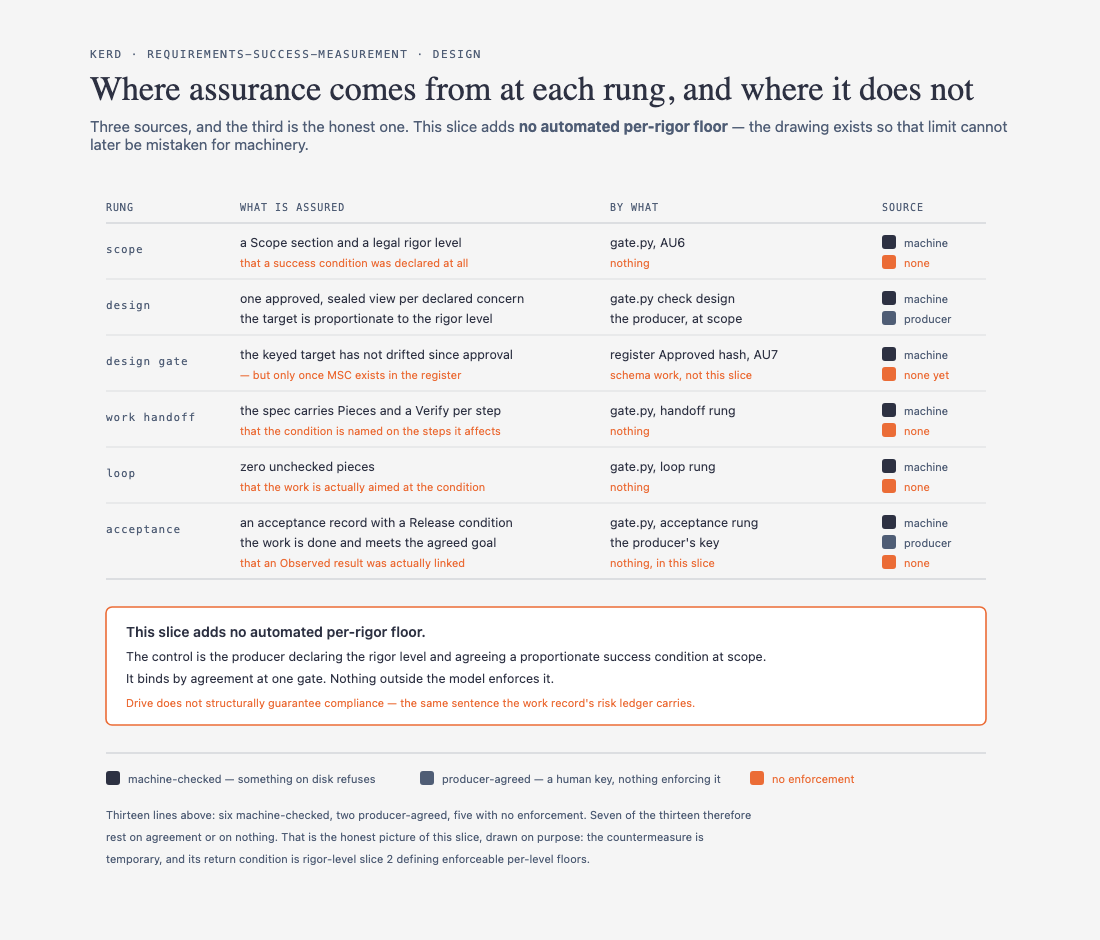
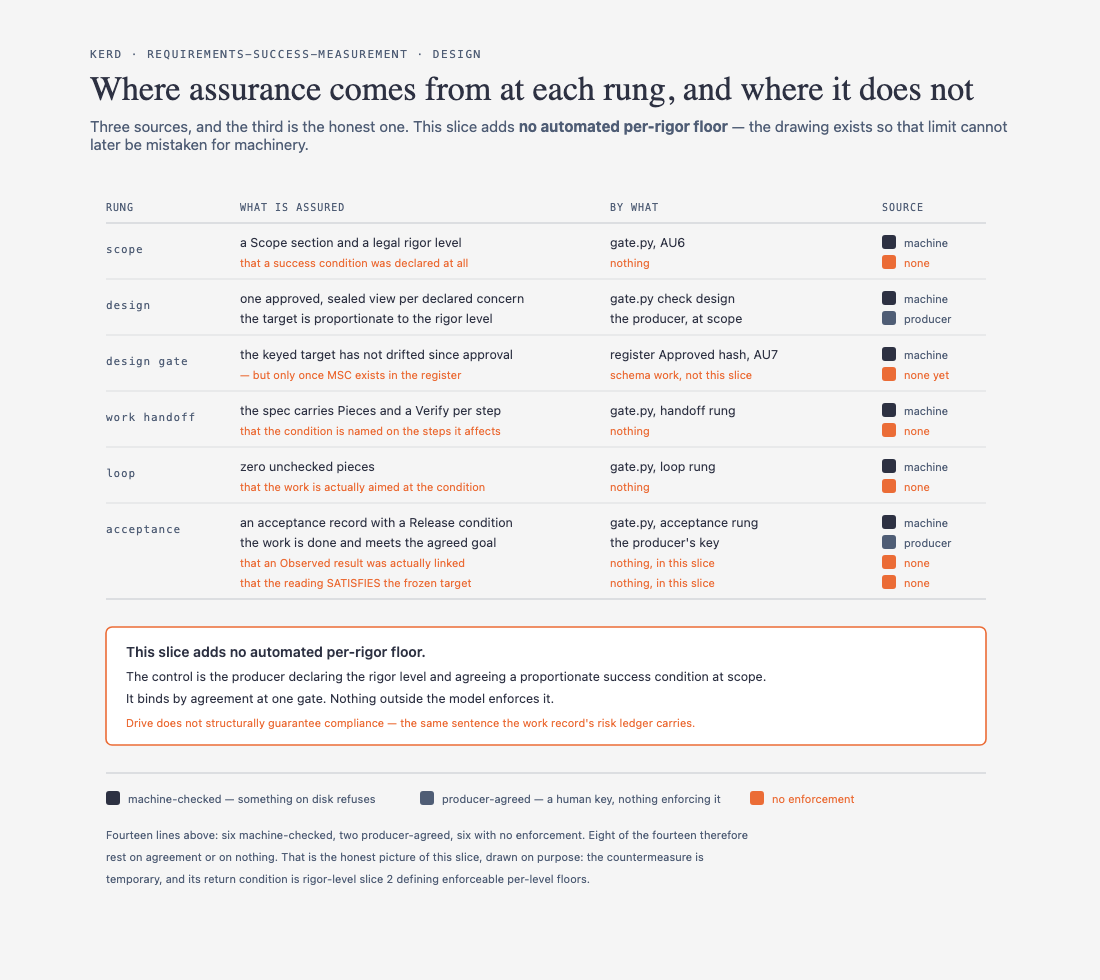
Acceptance is two decisions and three outcomes, not one and two
Producer catch at the design review, and it goes to the capability's purpose:
linking an observed result proves the condition was ASSESSABLE, never that the
target was MET. A linked result can show failure. The earlier model collapsed
those two questions, which would have shipped a capability structurally unable
to report that a number was bad.

  is an Observed result linked?
  |- no  -> NOT ASSESSABLE
  \- yes -> does the result satisfy the target frozen at KEYED?
             |- yes -> PROVEN
             \- no  -> NOT MET

NOT MET is a real, reportable outcome. A design whose only outcomes are 'proven'
and 'could not tell' is a design that cannot say no.

Invariants preserved and stated: KEYED freezes the target; the Observed result
supplies the reading; the comparison decides PROVEN vs NOT MET; absence of a
reading yields NOT ASSESSABLE.

This exposed an omission in the assurance view, which was approved before the
second decision existed: nothing checks whether the reading satisfies the frozen
target. Added as a fourteenth line, none-enforced. Counts re-derived from the
rendered rows — fourteen lines, six machine-checked, two producer-agreed, six
unenforced, so eight of fourteen rest on agreement or on nothing.

Changed region(s): [[0.0618, 0.0309, 0.9273, 0.9255], [0.0927, 0.3702, 0.1545, 0.4628], [0.0927, 0.3085, 0.1545, 0.3394]]

diff --git a/docs/design/requirements-success-measurement/condition-lifecycle.html b/docs/design/requirements-success-measurement/condition-lifecycle.html
@@ -21,10 +21,10 @@
   <div class="wrap">
     <p class="eyebrow">Kerd · requirements-success-measurement · design</p>
     <h1>How a success condition travels from declaration to demonstrated proof</h1>
-    <p class="sub">Five states before acceptance, then a decision with two outcomes. It spans five of the ladder&rsquo;s seven rungs. The design gate is the producer&rsquo;s key <em>at</em> the design rung &mdash; a transition, not a rung of its own.</p>
-    <svg viewBox="0 0 920 700" role="img" aria-labelledby="lc-title lc-desc">
+    <p class="sub">Five states before acceptance, then <strong>two decisions and three outcomes</strong>. It spans five of the ladder&rsquo;s seven rungs. The design gate is the producer&rsquo;s key <em>at</em> the design rung &mdash; a transition, not a rung of its own.</p>
+    <svg viewBox="0 0 920 796" role="img" aria-labelledby="lc-title lc-desc">
       <title id="lc-title">How a success condition travels from declaration to demonstrated proof</title>
-      <desc id="lc-desc">A success condition passes through five states before acceptance, then a decision with two outcomes. It spans five of the ladder's seven rungs, from scope to acceptance. Frame and viability sit before this span. The design gate shown here is the producer's key at the design rung, a transition rather than a rung of its own. At scope the condition is UNDECLARED: the requirement exists and nothing says how we will know it was met. At design it becomes DECLARED, with statement, measure, baseline and target written, in register state proposed. At the design gate it becomes KEYED: the producer approves it and the register records an Approved hash over its words, so the target cannot later change without the approval visibly diverging. At work handoff it becomes CARRIED, named on every step whose work affects it. In the loop it is TRACKED, the thing the build is aimed at. Then acceptance evaluates the condition, and that evaluation is a decision with two outcomes, not a state that can fail afterwards: the question asked is whether an observed result is linked. If yes, the condition is PROVEN by the reading rather than by assertion. If no, the outcome is NOT ASSESSABLE, which is never a passed row and never grounds for authoring a target after the build, following the precedent set at the gate-visuals acceptance gate on 2026-08-30. KEYED freezes the predeclared target and PROVEN holds the later reading, which is why the two live on different objects.</desc>
+      <desc id="lc-desc">A success condition passes through five states before acceptance, then two decisions yielding three outcomes. It spans five of the ladder's seven rungs, from scope to acceptance. Frame and viability sit before this span. The design gate shown here is the producer's key at the design rung, a transition rather than a rung of its own. At scope the condition is UNDECLARED: the requirement exists and nothing says how we will know it was met. At design it becomes DECLARED, with statement, measure, baseline and target written, in register state proposed. At the design gate it becomes KEYED: the producer approves it and the register records an Approved hash over its words, so the target cannot later change without the approval visibly diverging. At work handoff it becomes CARRIED, named on every step whose work affects it. In the loop it is TRACKED, the thing the build is aimed at. Then acceptance evaluates the condition through two decisions, not one. The first asks whether an observed result is linked; if not, the outcome is NOT ASSESSABLE, because no reading was taken at all — never a passed row and never grounds for authoring a target after the build, following the precedent set at the gate-visuals acceptance gate on 2026-08-30. If a reading is linked, the second decision compares it against the target frozen at KEYED: if the reading satisfies the target the outcome is PROVEN, and if it misses the target the outcome is NOT MET. NOT MET is a real and reportable outcome, not a failure of the process. A linked reading proves only that the condition was assessable; it never proves the target was met, and the whole purpose of the capability is that measurement can demonstrate an unmet expectation rather than merely confirm that somebody recorded a number. KEYED freezes the predeclared target and PROVEN holds the later reading, which is why the two live on different objects.</desc>
       <defs>
         <marker id="a" viewBox="0 0 10 10" refX="9" refY="5" markerWidth="7" markerHeight="7" orient="auto-start-reverse">
           <path d="M 0 0 L 10 5 L 0 10 z" fill="#4f5d75"/></marker>
@@ -91,38 +91,53 @@
 
       <text class="rung" x="16" y="420">acceptance</text>
       <text class="e" x="16" y="434">rung 7 of 7</text>
-      <rect class="dec" x="176" y="392" width="396" height="56" rx="6"/>
-      <text class="b" x="194" y="418">acceptance evaluates the condition</text>
-      <text class="ma" x="194" y="438">is an Observed result linked?</text>
-      <text class="m" x="600" y="418">a DECISION with two outcomes —</text>
-      <text class="m" x="600" y="436">not a state that fails afterwards</text>
+      <rect class="dec" x="176" y="392" width="396" height="50" rx="6"/>
+      <text class="b" x="194" y="415">acceptance evaluates the condition</text>
+      <text class="ma" x="194" y="434">is an Observed result linked?</text>
 
-      <path d="M 272 448 L 272 476 L 220 476 L 220 500" stroke="#eb6c36" stroke-width="1.6" marker-end="url(#aa)" fill="none"/>
-      <text class="ea" x="230" y="470">yes</text>
-      <path d="M 476 448 L 476 476 L 528 476 L 528 500" stroke="#eb6c36" stroke-width="1.6" marker-end="url(#aa)" fill="none"/>
-      <text class="ea" x="486" y="470">no</text>
+      <path d="M 572 417 L 644 417" stroke="#eb6c36" stroke-width="1.6" marker-end="url(#aa)" fill="none"/>
+      <text class="ea" x="590" y="409">no</text>
+      <rect class="box" x="648" y="392" width="248" height="50" rx="6"/>
+      <text class="b" x="666" y="415">NOT ASSESSABLE</text>
+      <text class="m" x="666" y="434">no reading was taken at all</text>
 
-      <rect class="new" x="122" y="502" width="196" height="76" rx="6"/>
-      <text class="b" x="140" y="528">PROVEN</text>
-      <text class="m" x="140" y="548">the reading, not an assertion</text>
-      <text class="e" x="140" y="566">evidenced-by is satisfied</text>
+      <path d="M 374 442 L 374 478" stroke="#eb6c36" stroke-width="1.6" marker-end="url(#aa)" fill="none"/>
+      <text class="ea" x="386" y="464">yes</text>
 
-      <rect class="box" x="430" y="502" width="196" height="76" rx="6"/>
-      <text class="b" x="448" y="528">NOT ASSESSABLE</text>
-      <text class="m" x="448" y="548">never a passed row · never a</text>
-      <text class="m" x="448" y="566">target written after the build</text>
+      <rect class="dec" x="176" y="478" width="396" height="50" rx="6"/>
+      <text class="b" x="194" y="501">compare the reading to the target</text>
+      <text class="ma" x="194" y="520">does it satisfy the target frozen at KEYED?</text>
+      <text class="m" x="600" y="497">the target cannot move to meet</text>
+      <text class="m" x="600" y="515">the reading — that is what KEYED buys</text>
 
-      <text class="m" x="656" y="528">the gate-visuals precedent,</text>
-      <text class="m" x="656" y="546">2026-08-30 — an absent</text>
-      <text class="m" x="656" y="564">declaration is an exception,</text>
-      <text class="m" x="656" y="582">not a pass</text>
+      <path d="M 272 528 L 272 552 L 236 552 L 236 578" stroke="#eb6c36" stroke-width="1.6" marker-end="url(#aa)" fill="none"/>
+      <text class="ea" x="246" y="546">yes</text>
+      <path d="M 476 528 L 476 552 L 512 552 L 512 578" stroke="#eb6c36" stroke-width="1.6" marker-end="url(#aa)" fill="none"/>
+      <text class="ea" x="486" y="546">no</text>
 
-      <line x1="16" y1="614" x2="896" y2="614" stroke="#4f5d75" stroke-opacity=".3"/>
-      <rect class="box" x="16" y="632" width="22" height="14" rx="3"/>
-      <text class="m" x="48" y="644">state reachable today</text>
-      <rect class="new" x="220" y="632" width="22" height="14" rx="3"/>
-      <text class="ma" x="252" y="644">introduced by this design — none of it is built in this slice</text>
-      <text class="m" x="16" y="678">KEYED freezes the predeclared target; PROVEN holds the later reading. That is why they are two objects and never one field.</text>
+      <rect class="new" x="138" y="580" width="196" height="68" rx="6"/>
+      <text class="b" x="156" y="606">PROVEN</text>
+      <text class="m" x="156" y="626">the reading meets the target</text>
+      <text class="e" x="156" y="642">the expectation held</text>
+
+      <rect class="new" x="414" y="580" width="196" height="68" rx="6"/>
+      <text class="b" x="432" y="606">NOT MET</text>
+      <text class="m" x="432" y="626">the reading misses the target</text>
+      <text class="e" x="432" y="642">a real, reportable outcome</text>
+
+      <text class="ma" x="632" y="600">Measurement must be able to show an</text>
+      <text class="ma" x="632" y="618">UNMET expectation, not merely confirm</text>
+      <text class="ma" x="632" y="636">that somebody recorded a number.</text>
+      <text class="m" x="632" y="658">That is the capability&#8217;s purpose.</text>
+
+      <line x1="16" y1="690" x2="896" y2="690" stroke="#4f5d75" stroke-opacity=".3"/>
+      <rect class="box" x="16" y="708" width="22" height="14" rx="3"/>
+      <text class="m" x="48" y="720">state reachable today</text>
+      <rect class="new" x="220" y="708" width="22" height="14" rx="3"/>
+      <text class="ma" x="252" y="720">introduced by this design — none of it is built in this slice</text>
+
+      <text class="m" x="16" y="754">KEYED freezes the target · the Observed result supplies the reading · the comparison decides PROVEN or NOT MET ·</text>
+      <text class="m" x="16" y="776">the absence of a reading yields NOT ASSESSABLE. Three outcomes, two decisions — never one.</text>
 
     </svg>
   </div>

diff --git a/docs/design/requirements-success-measurement/assurance-boundary.html b/docs/design/requirements-success-measurement/assurance-boundary.html
@@ -22,9 +22,9 @@
     <p class="eyebrow">Kerd · requirements-success-measurement · design</p>
     <h1>Where assurance comes from at each rung, and where it does not</h1>
     <p class="sub">Three sources, and the third is the honest one. This slice adds <strong>no automated per-rigor floor</strong> — the drawing exists so that limit cannot later be mistaken for machinery.</p>
-    <svg viewBox="0 0 920 700" role="img" aria-labelledby="ab-title ab-desc">
+    <svg viewBox="0 0 920 720" role="img" aria-labelledby="ab-title ab-desc">
       <title id="ab-title">Where assurance comes from at each rung, and where it does not</title>
-      <desc id="ab-desc">For each rung of the ladder, the drawing names what assures the success condition and by what mechanism. Assurance comes from three sources, marked distinctly: machine-checked, meaning something on disk refuses; producer-agreed, meaning a human key with nothing outside the model enforcing it; and no enforcement, meaning nothing checks at all. At scope, the Scope section and a legal rigor level are machine-checked by the existing gate, but whether a success condition was declared at all is not enforced. At design, one approved and sealed view per declared concern is machine-checked; whether the condition's target is proportionate to the declared rigor level is producer-agreed only. At the design gate the register's Approved hash over the condition is machine-checkable once MSC exists in the register, though that is schema work this slice does not build. At work handoff the spec must carry Pieces and a Verify on every step, machine-checked; whether the condition is actually named on the steps it affects has no enforcement. In the loop, zero unchecked pieces is machine-checked; whether the work is aimed at the condition has no enforcement. At acceptance the acceptance record and its Release condition section are machine-checked, and the producer's key is the decision; whether an observed result was actually linked has no enforcement in this slice. The summary is stated plainly: of thirteen lines, six are machine-checked, two are producer-agreed and five have no enforcement, so seven of the thirteen rest on agreement or on nothing; this slice adds no automated per-rigor floor, and Drive does not structurally guarantee compliance — the same sentence carried in the work record's risk ledger.</desc>
+      <desc id="ab-desc">For each rung of the ladder, the drawing names what assures the success condition and by what mechanism. Assurance comes from three sources, marked distinctly: machine-checked, meaning something on disk refuses; producer-agreed, meaning a human key with nothing outside the model enforcing it; and no enforcement, meaning nothing checks at all. At scope, the Scope section and a legal rigor level are machine-checked by the existing gate, but whether a success condition was declared at all is not enforced. At design, one approved and sealed view per declared concern is machine-checked; whether the condition's target is proportionate to the declared rigor level is producer-agreed only. At the design gate the register's Approved hash over the condition is machine-checkable once MSC exists in the register, though that is schema work this slice does not build. At work handoff the spec must carry Pieces and a Verify on every step, machine-checked; whether the condition is actually named on the steps it affects has no enforcement. In the loop, zero unchecked pieces is machine-checked; whether the work is aimed at the condition has no enforcement. At acceptance the acceptance record and its Release condition section are machine-checked, and the producer's key is the decision; whether an observed result was actually linked has no enforcement in this slice. The summary is stated plainly: of fourteen lines, six are machine-checked, two are producer-agreed and six have no enforcement, so eight of the fourteen rest on agreement or on nothing; among the unenforced is the comparison itself, whether the observed reading actually satisfies the target frozen at the design gate, which nothing checks in this slice; this slice adds no automated per-rigor floor, and Drive does not structurally guarantee compliance — the same sentence carried in the work record's risk ledger.</desc>
       <defs>
         <style>
           .n{font-family:var(--font-sans);font-size:12.5px;fill:var(--color-ink);}
@@ -113,26 +113,30 @@
       <text class="ma" x="520" y="386">nothing, in this slice</text>
       <rect x="792" y="374" width="14" height="14" rx="3" fill="#eb6c36"/>
       <text class="ma" x="814" y="386">none</text>
-      <line x1="16" y1="398" x2="896" y2="398" stroke="#4f5d75" stroke-opacity=".3"/>
+      <text class="ma" x="150" y="406">that the reading SATISFIES the frozen target</text>
+      <text class="ma" x="520" y="406">nothing, in this slice</text>
+      <rect x="792" y="394" width="14" height="14" rx="3" fill="#eb6c36"/>
+      <text class="ma" x="814" y="406">none</text>
+      <line x1="16" y1="418" x2="896" y2="418" stroke="#4f5d75" stroke-opacity=".3"/>
 
       <!-- the statement this drawing exists for -->
-      <rect x="16" y="426" width="880" height="118" rx="6" fill="#fff" stroke="#eb6c36" stroke-width="1.6"/>
-      <text class="b" x="36" y="456">This slice adds no automated per-rigor floor.</text>
-      <text class="n" x="36" y="480">The control is the producer declaring the rigor level and agreeing a proportionate success condition at scope.</text>
-      <text class="n" x="36" y="502">It binds by agreement at one gate. Nothing outside the model enforces it.</text>
-      <text class="ma" x="36" y="526">Drive does not structurally guarantee compliance — the same sentence the work record's risk ledger carries.</text>
+      <rect x="16" y="446" width="880" height="118" rx="6" fill="#fff" stroke="#eb6c36" stroke-width="1.6"/>
+      <text class="b" x="36" y="476">This slice adds no automated per-rigor floor.</text>
+      <text class="n" x="36" y="500">The control is the producer declaring the rigor level and agreeing a proportionate success condition at scope.</text>
+      <text class="n" x="36" y="522">It binds by agreement at one gate. Nothing outside the model enforces it.</text>
+      <text class="ma" x="36" y="546">Drive does not structurally guarantee compliance — the same sentence the work record's risk ledger carries.</text>
 
-      <line x1="16" y1="572" x2="896" y2="572" stroke="#4f5d75" stroke-opacity=".3"/>
-      <rect x="16" y="590" width="14" height="14" rx="3" fill="#2d3142"/>
-      <text class="m" x="38" y="602">machine-checked — something on disk refuses</text>
-      <rect x="330" y="590" width="14" height="14" rx="3" fill="#4f5d75"/>
-      <text class="m" x="352" y="602">producer-agreed — a human key, nothing enforcing it</text>
-      <rect x="660" y="590" width="14" height="14" rx="3" fill="#eb6c36"/>
-      <text class="ma" x="682" y="602">no enforcement</text>
+      <line x1="16" y1="592" x2="896" y2="592" stroke="#4f5d75" stroke-opacity=".3"/>
+      <rect x="16" y="610" width="14" height="14" rx="3" fill="#2d3142"/>
+      <text class="m" x="38" y="622">machine-checked — something on disk refuses</text>
+      <rect x="330" y="610" width="14" height="14" rx="3" fill="#4f5d75"/>
+      <text class="m" x="352" y="622">producer-agreed — a human key, nothing enforcing it</text>
+      <rect x="660" y="610" width="14" height="14" rx="3" fill="#eb6c36"/>
+      <text class="ma" x="682" y="622">no enforcement</text>
 
-      <text class="m" x="16" y="638">Thirteen lines above: six machine-checked, two producer-agreed, five with no enforcement. Seven of the thirteen therefore</text>
-      <text class="m" x="16" y="660">rest on agreement or on nothing. That is the honest picture of this slice, drawn on purpose: the countermeasure is</text>
-      <text class="m" x="16" y="682">temporary, and its return condition is rigor-level slice 2 defining enforceable per-level floors.</text>
+      <text class="m" x="16" y="658">Fourteen lines above: six machine-checked, two producer-agreed, six with no enforcement. Eight of the fourteen therefore</text>
+      <text class="m" x="16" y="680">rest on agreement or on nothing. That is the honest picture of this slice, drawn on purpose: the countermeasure is</text>
+      <text class="m" x="16" y="702">temporary, and its return condition is rigor-level slice 2 defining enforceable per-level floors.</text>
     </svg>
   </div>
 </body>

diff --git a/docs/design/requirements-success-measurement.md b/docs/design/requirements-success-measurement.md
@@ -121,7 +121,7 @@ does not build it.**
 
 ## The lifecycle
 
-Five states before acceptance, then a **decision** with two outcomes —
+Five states before acceptance, then **two decisions yielding three outcomes** —
 `docs/design/requirements-success-measurement/condition-lifecycle.html`. It
 spans five of the ladder's seven rungs (`frame` and `viability` sit before it),
 and **the design gate is the producer's key *at* the design rung — a transition,
@@ -140,16 +140,40 @@ not a rung of its own.**
 That separation is the lifecycle's whole point and it is why the two live on
 different objects.
 
-**Acceptance is a decision, not a state that fails afterwards.** It asks one
-question — *is an `Observed result` linked?* — and yields one of two outcomes:
+**Acceptance is two decisions, not one — and the second is the capability's
+entire purpose.**
 
-- **yes → `PROVEN`.** The reading, not an assertion.
-- **no → `NOT ASSESSABLE`.** Never a passed row, and never a target authored
-  after the build.
+```
+is an Observed result linked?
+├─ no  → NOT ASSESSABLE
+└─ yes → does the result satisfy the target frozen at KEYED?
+          ├─ yes → PROVEN
+          └─ no  → NOT MET
+```
 
-Ordering matters here and is not cosmetic: `PROVEN` is *defined by* a linked
-observed result, so `NOT ASSESSABLE` cannot branch out of it. The fork sits
-before both. That is the precedent set at `gate-visuals`' acceptance gate on
+**A linked reading proves only that the condition was ASSESSABLE. It never
+proves the target was met** — a linked result can perfectly well show failure.
+Collapsing these two questions into one was a real defect in an earlier draft of
+this design, caught at the review on 2026-08-31, and it would have shipped a
+capability that could confirm somebody recorded a number while being structurally
+unable to report that the number was bad.
+
+**`NOT MET` is a real, reportable outcome, not a process failure.** Measurement
+must be able to demonstrate an *unmet expectation*; a design in which the only
+outcomes are "proven" and "couldn't tell" is a design that cannot say no.
+
+The four invariants this rests on:
+
+1. **`KEYED` freezes the target** — it cannot move later to meet the reading.
+2. **The `Observed result` supplies the reading** — separate object, so the
+   proof cannot overwrite the promise.
+3. **The comparison decides `PROVEN` versus `NOT MET`.**
+4. **The absence of a reading yields `NOT ASSESSABLE`** — never a passed row,
+   and never grounds for authoring a target after the build (the `gate-visuals`
+   precedent, 2026-08-30).
+
+Ordering matters and is not cosmetic: `PROVEN` is *defined by* a satisfied
+comparison, so neither `NOT ASSESSABLE` nor `NOT MET` can branch out of it. That is the precedent set at `gate-visuals`' acceptance gate on
 2026-08-30, where an absent measurement declaration was closed as an explicit
 producer exception rather than invented retroactively. This design is the
 upstream countermeasure to that exception.
@@ -161,8 +185,14 @@ for every rung, what assures the condition and by what — machine-checked
 (something on disk refuses), producer-agreed (a human key, nothing outside the
 model enforcing it), or no enforcement at all.
 
-**Of thirteen lines: six machine-checked, two producer-agreed, five with no
-enforcement. Seven of the thirteen rest on agreement or on nothing.**
+**Of fourteen lines: six machine-checked, two producer-agreed, six with no
+enforcement. Eight of the fourteen rest on agreement or on nothing.**
+
+**The comparison itself is among the unenforced.** Whether the observed reading
+actually satisfies the target frozen at the design gate is checked by nothing in
+this slice — it was added to the assurance view on 2026-08-31, when the
+two-decision model exposed it as an assurance question the drawing had been
+silently omitting.
 
 **This slice adds no automated per-rigor floor.** The control is the producer
 declaring the rigor level and agreeing a proportionate success condition at
@@ -201,5 +231,9 @@ adapts to it, never the reverse.**
 - **Where the `Observed result` lives** — a register category or an external
   evidence artifact. It is a fourth object either way; the home is open.
 - **Whether `MSC` is the right code**, pending the category vocabulary review.
-- **Any enforcement.** Seven of thirteen assurance lines rest on agreement or
-  nothing, by design, at `mvp`.
+- **Any enforcement.** Eight of fourteen assurance lines rest on agreement or
+  nothing, by design, at `mvp` — including the comparison of reading against
+  target, which is the one a machine could most plausibly do once `MSC` exists
+  in the register.
+- **Reciprocal link stamping**, owed so the suspect-link check becomes
+  symmetric.
